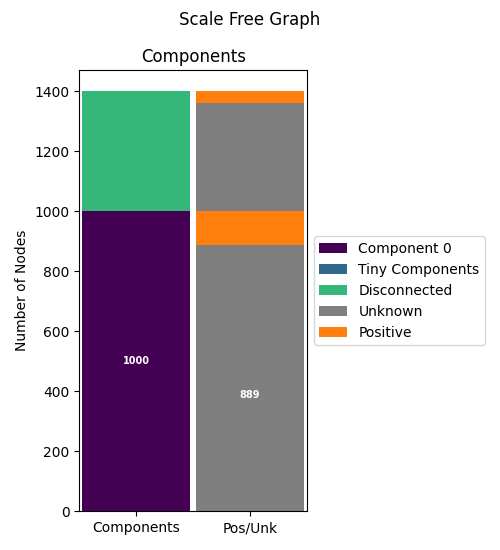
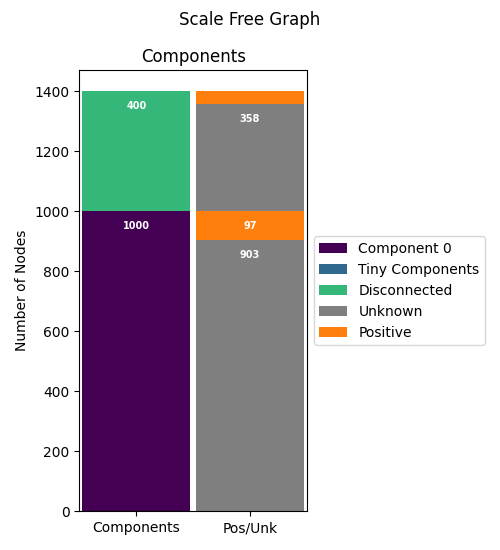
made y_offset for bars relative

diff --git a/functional.py b/functional.py
@@ -304,7 +304,7 @@ def plot_disconnected_components(components, isolates, fig=None, ax=None):
     ax.set_xticklabels(["Components", "Pos/Unk"])
 
     for bar in ax.patches:
-        y_offset = -500
+        y_offset = - (0.05 * total_nodes)
         try:
             if bar.get_height() > np.abs(y_offset):
                 ax.text(
